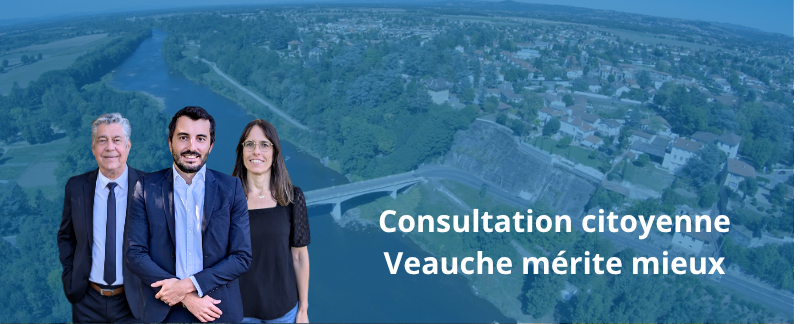
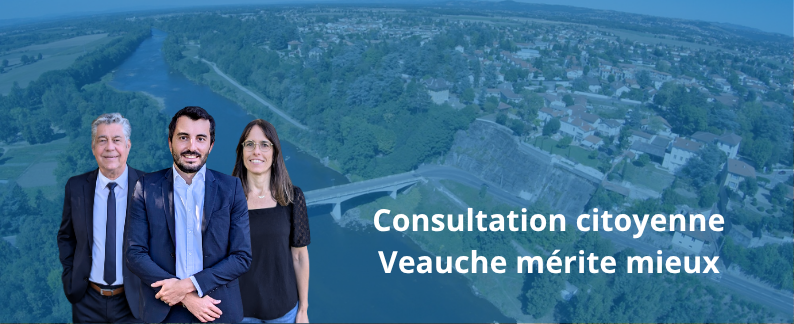
Checkpoint: Mise à jour visuelle : remplacement de la bannière de consultation citoyenne par la nouvelle version sans bordure blanche, suppression de la contrainte max-h-32 pour affichage complet de l'image, réduction des marges verticales sur mobile en retirant min-h-screen du conteneur flex (appli

diff --git a/client/src/pages/Home.tsx b/client/src/pages/Home.tsx
@@ -201,10 +201,10 @@ export default function Home() {
     <div className="min-h-screen bg-gradient-to-br from-blue-50 via-white to-amber-50">
       {/* Bannière en dehors du layout sur mobile */}
       <div className="md:hidden w-full">
-        <img src="/header-consultation.png" alt="Consultation citoyenne" className="w-full shadow-md max-h-32 object-cover" />
+        <img src="/header-consultation.png" alt="Consultation citoyenne" className="w-full shadow-md object-cover" />
       </div>
       
-      <div className="flex items-center justify-center p-0 md:p-4 min-h-screen md:min-h-0">
+      <div className="flex items-center justify-center p-0 md:p-4 md:min-h-screen">
         <div className="max-w-4xl w-full bg-white md:rounded-lg shadow-lg p-4 md:p-8 border-t-4 md:border-t-4 border-t-0 border-[#0D6EB2]">
           {/* Header avec logo et image pour desktop */}
           <div className="mb-4 md:mb-8">

diff --git a/todo.md b/todo.md
@@ -73,3 +73,7 @@
 ## Corrections urgentes
 - [x] Sortir la bannière du layout pour la mettre en full width sur mobile
 - [x] Corriger les labels des checkboxes qui ne sont plus cliquables
+
+## Ajustements bannière
+- [x] Remplacer la bannière par la nouvelle version
+- [x] Réduire la marge verticale entre la bannière et la question sur mobile (problème de min-height)
